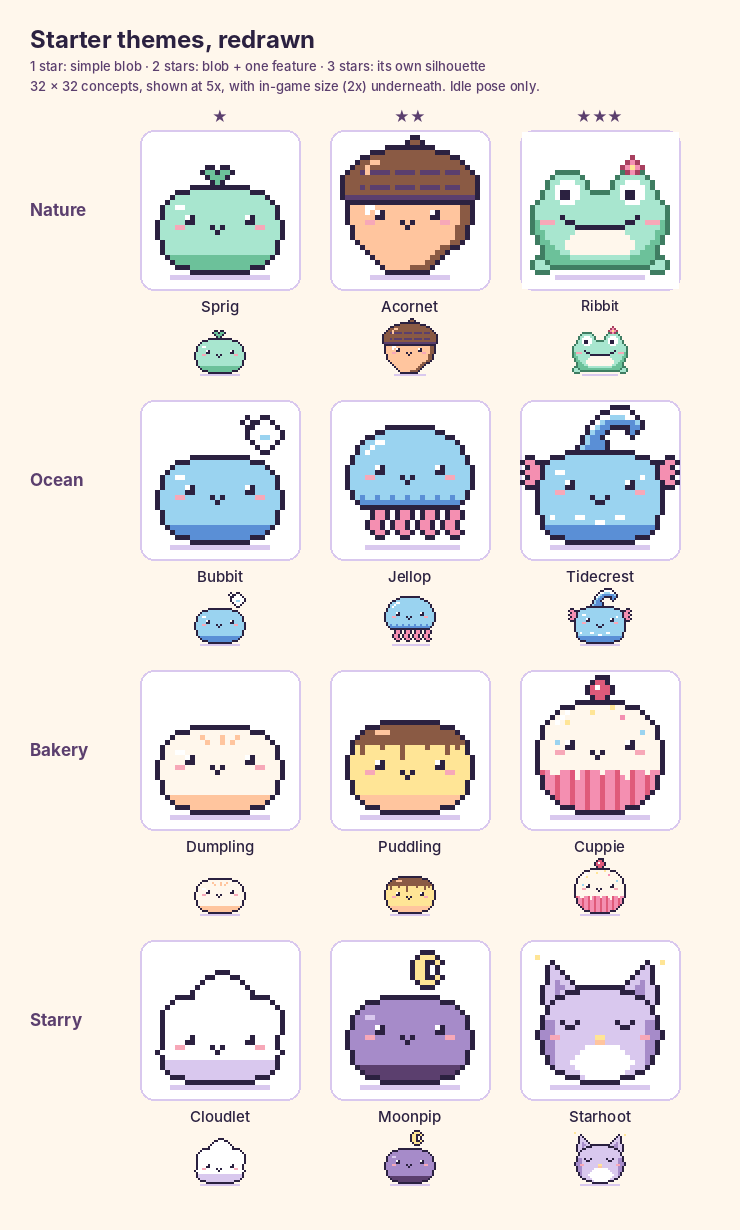
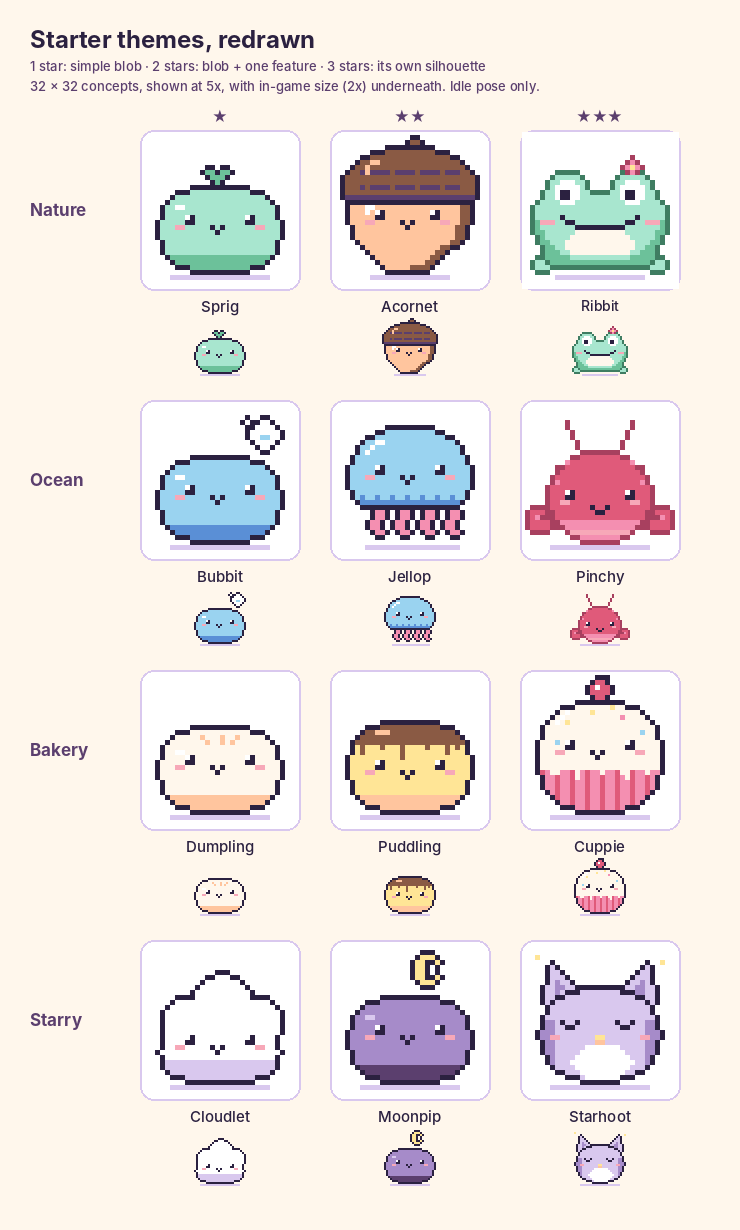
Pinchy the lobster replaces Tidecrest as Ocean's 3-star pet
The lobster drawing (until now Tidecrest's Lobster colour) becomes its own
character, Pinchy, with Tidecrest's traits. Tidecrest's art moves to
art/shelved. Saves move to version 33: every Tidecrest becomes Pinchy, the
Lobster colour (and carried Lobster genes) are dropped, and found/met
entries merge into "pinchy". The unused "crest" shape is removed and the
lineup picture and art guide are updated.

Claude-Session: https://claude.ai/code/session_01RvP5kcexBU7mZvWNTbQUX2

Changed region(s): [[0.6838, 0.3089, 0.9324, 0.5252]]

diff --git a/src/storage/storage.ts b/src/storage/storage.ts
@@ -20,7 +20,7 @@ const SAVE_KEY = 'cozy-pixel-pet-save';
 
 // Bump this number whenever the shape of GameState changes, and teach
 // migrate() how to upgrade older saves so players never lose their pet.
-export const SAVE_VERSION = 32;
+export const SAVE_VERSION = 33;
 
 export interface SaveFile {
   version: number;
@@ -378,6 +378,34 @@ export function migrate(save: SaveFile): SaveFile {
   if (save.version === 31) {
     save.state.familyHome = { owned: false, room: { wallpaper: 'plain', curtains: null } };
     save.version = 32;
+  }
+  if (save.version === 32) {
+    // Pinchy (the lobster) took Tidecrest's place as Ocean's 3-star, and
+    // Tidecrest's Lobster colour went with it.
+    const st = save.state;
+    const fix = (thing: any) => {
+      if (thing?.character !== 'tidecrest') return;
+      thing.character = 'pinchy';
+      if ('variant' in thing) thing.variant = null;
+    };
+    const fixGenes = (genes: any) => {
+      if (genes?.variant?.startsWith('tidecrest:')) genes.variant = null;
+    };
+    const pets: any[] = [st.pet, ...(st.housemates ?? []), st.nest, ...(st.family ?? [])].filter(Boolean);
+    for (const p of pets) {
+      fix(p);
+      for (const look of p.parentLooks ?? []) fix(look);
+      fixGenes(p.carried);
+      for (const g of p.parentCarried ?? []) fixGenes(g);
+    }
+    for (const m of [...(st.friends ?? []), st.visit?.guest, ...(st.messages ?? [])]) {
+      fix(m);
+      fixGenes(m?.carried);
+    }
+    const key = (k: string) => (k === 'tidecrest' || k.startsWith('tidecrest:') ? 'pinchy' : k);
+    st.charactersFound = [...new Set((st.charactersFound ?? []).map(key))];
+    st.charactersMet = [...new Set((st.charactersMet ?? []).map(key))];
+    save.version = 33;
   }
   return save;
 }

diff --git a/tests/storage.test.ts b/tests/storage.test.ts
@@ -79,6 +79,28 @@ describe('save migration', () => {
     expect(out.charactersMet).toEqual(['ribbit']);
   });
 
+  it('turns Tidecrest (and its Lobster colour) into Pinchy', () => {
+    const s: any = createNewGame(1);
+    s.pet = { ...s.pet, stage: 'adult', character: 'tidecrest', variant: 'lobster', trait: 'cheery',
+      parentLooks: [{ character: 'tidecrest', variant: 'lobster' }], carried: { theme: null, variant: 'tidecrest:lobster' } };
+    s.family = [{ id: 'f', character: 'tidecrest', variant: null, trait: 'playful' }];
+    s.friends = [{ id: 'w', character: 'tidecrest', variant: 'lobster', carried: { theme: 'nature', variant: 'tidecrest:lobster' } }];
+    s.visit = { ...s.visit, guest: { id: 'v', character: 'tidecrest', variant: null } };
+    s.messages = [{ kind: 'visitor', character: 'tidecrest' }];
+    s.charactersFound = ['sprig', 'tidecrest', 'tidecrest:lobster'];
+    s.charactersMet = ['tidecrest:lobster'];
+    const out = migrate({ version: 32, state: s }).state;
+    expect(out.pet).toMatchObject({ character: 'pinchy', variant: null, trait: 'cheery' });
+    expect(out.pet.parentLooks[0]).toEqual({ character: 'pinchy', variant: null });
+    expect(out.pet.carried.variant).toBeNull();
+    expect(out.family[0].character).toBe('pinchy');
+    expect(out.friends[0]).toMatchObject({ character: 'pinchy', variant: null, carried: { theme: 'nature', variant: null } });
+    expect(out.visit.guest.character).toBe('pinchy');
+    expect(out.messages[0].character).toBe('pinchy');
+    expect(out.charactersFound).toEqual(['sprig', 'pinchy']);
+    expect(out.charactersMet).toEqual(['pinchy']);
+  });
+
   it('gives every pet, and the Family Tree, a trait', () => {
     const s: any = createNewGame(1);
     delete s.pet.trait;

diff --git a/tests/friends.test.ts b/tests/friends.test.ts
@@ -380,10 +380,10 @@ describe('growing up as a little one', () => {
     // Two 1-star parents: no 3-star little ones.
     const plain = kids([{ character: 'sprig', variant: null }, { character: 'bubbit', variant: null }], ['nature', 'ocean']);
     expect(plain.some((c) => c.stars === 3)).toBe(false);
-    // A Jellop parent lets an Ocean little one reach Tidecrest, but a
+    // A Jellop parent lets an Ocean little one reach Pinchy, but a
     // Nature one still stops at Acornet.
     const climbed = kids([{ character: 'sprig', variant: null }, { character: 'jellop', variant: null }], ['nature', 'ocean']);
-    expect(climbed.some((c) => c.id === 'tidecrest')).toBe(true);
+    expect(climbed.some((c) => c.id === 'pinchy')).toBe(true);
     expect(climbed.some((c) => c.id === 'ribbit')).toBe(false);
   });
 
@@ -469,7 +469,7 @@ describe('the Collection and wanderers', () => {
     const lean = CONFIG.friends.unmetWandererChance / 100;
     expect(cloudlets).toBeGreaterThan(0.25 + 0.75 * lean - 0.08);
     // Nothing new to meet: just as before.
-    const all = makeWanderer(NOON, [], ['sprig', 'bubbit', 'dumpling', 'cloudlet', 'acornet', 'jellop', 'puddling', 'moonpip', 'ribbit', 'tidecrest', 'cuppie', 'starhoot']);
+    const all = makeWanderer(NOON, [], ['sprig', 'bubbit', 'dumpling', 'cloudlet', 'acornet', 'jellop', 'puddling', 'moonpip', 'ribbit', 'pinchy', 'cuppie', 'starhoot']);
     expect(all.character).toBe(makeWanderer(NOON, []).character);
   });
 });

diff --git a/tests/forecast.test.ts b/tests/forecast.test.ts
@@ -58,7 +58,7 @@ describe('the forecast before mingling', () => {
     expect(plain.stars[1] + plain.stars[2]).toBeCloseTo(100, 5);
     // Two 3-star parents: their own themes reach 3 stars, a carried theme
     // (the outside share) stops at 2.
-    const stars = forecast(...Object.values(parents({ character: 'ribbit' }, { character: 'tidecrest', variant: null })) as [Pet, Friend]);
+    const stars = forecast(...Object.values(parents({ character: 'ribbit' }, { character: 'pinchy', variant: null })) as [Pet, Friend]);
     const best = CONFIG.rarityStarParents[0].odds;
     expect(stars.stars[1]).toBe(best[1]);
     expect(stars.stars[3]).toBeCloseTo(best[3] * (1 - CONFIG.inheritance.outsideThemeChance / 100), 5);

diff --git a/tests/faces.test.ts b/tests/faces.test.ts
@@ -93,7 +93,7 @@ describe('traits', () => {
   });
 
   it('gives each 3-star starter pet one or two traits, and the others any', () => {
-    const locked = { ribbit: ['playful', 'greedy'], tidecrest: ['playful', 'cheery'], cuppie: ['greedy', 'cheery'], starhoot: ['sleepy'] };
+    const locked = { ribbit: ['playful', 'greedy'], pinchy: ['playful', 'cheery'], cuppie: ['greedy', 'cheery'], starhoot: ['sleepy'] };
     for (const [id, traits] of Object.entries(locked)) expect(allowedTraits(getCharacter(id))).toEqual(traits);
     for (const id of ['sprig', 'acornet', 'bubbit', 'jellop', 'dumpling', 'puddling', 'cloudlet', 'moonpip']) {
       expect(allowedTraits(getCharacter(id))).toEqual(allowedTraits(undefined));

diff --git a/docs/ART_GUIDE.md b/docs/ART_GUIDE.md
@@ -15,7 +15,7 @@ Each theme has a common (★), an uncommon (★★) and a rare (★★★) chara
 | Theme | ★ | ★★ | ★★★ |
 | --- | --- | --- | --- |
 | Nature | Sprig | Acornet | Ribbit |
-| Ocean | Bubbit | Jellop | Tidecrest (and Lobster variant) |
+| Ocean | Bubbit | Jellop | Pinchy |
 | Bakery | Dumpling | Puddling | Cuppie |
 | Starry | Cloudlet | Moonpip | Starhoot |
 | Cave (later pack) | Pebblit (and Amber variant) | Crystalback | Geodon |
@@ -241,7 +241,7 @@ Characters drawn on the same body (same size, same top where a hat rests) share 
 | `acorn` | Acornet (hat sits on the acorn cap) |
 | `frog` | Ribbit (between the eye bumps) |
 | `dome` | Jellop |
-| `crest` | Tidecrest |
+| `lobster` | Pinchy |
 | `flan` | Puddling |
 | `cupcake` | Cuppie (hat sits on the frosting) |
 | `cloud` | Cloudlet (hat sits on the top puff) |
